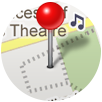
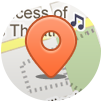
Three state map_button

Changed region(s): [[0.2353, 0.0, 0.8824, 0.7941]]

diff --git a/less/views/order2/uis/buttons/map_button.less b/less/views/order2/uis/buttons/map_button.less
@@ -11,7 +11,7 @@
   border-radius: @size;
   border: 3px solid @grey02;
 
-  -webkit-box-shadow: inset 0 1px 1px 2px rgba(0,0,0,0.3);
+  -webkit-box-shadow: inset 0 1px 0px 1px rgba(0, 0, 0, 0.4), inset 0 -1px 0 0px rgba(0, 0, 0, 0.3);
 
 	background-image: url(assets/buttons/map.png);
   background-repeat:no-repeat;
@@ -24,3 +24,27 @@
   background-color: white;
 
 }
+
+
+.map-button:active {
+
+ 
+  -webkit-box-shadow: inset 0 3px 2px 2px rgba(0, 0, 0, 0.3), inset 0 -1px 2px 0px rgba(0, 0, 0, 0.5), inset 0 0 60px 0 rgba(0, 0, 0, 0.2), inset 0 0 0 1px rgba(0, 0, 0, 0.1);
+
+
+}
+
+
+
+.map-button.is-selected {
+
+
+  -webkit-box-shadow:  inset 0 0px 0px 2px rgba(255, 255, 255, 1), inset 0 0px 0 3px rgba(0, 0, 0, 0.3), inset 0 0 35px 1px rgba(255, 255, 255, 1);
+
+
+
+}
+
+
+
+
